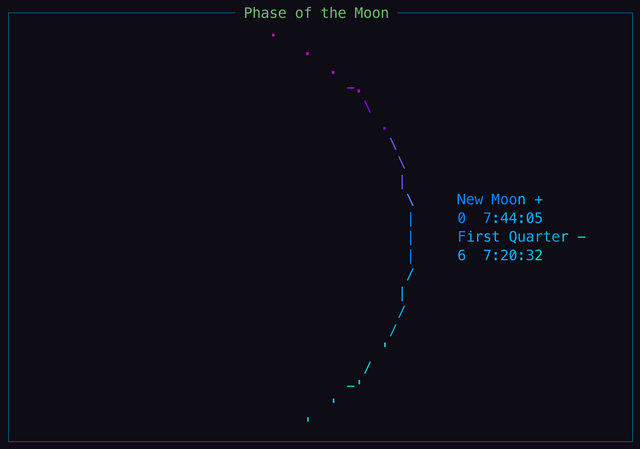
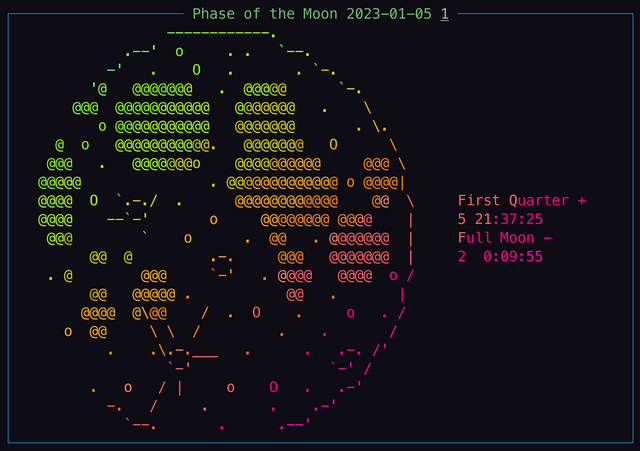
Update lunarphase with keyboard controls, add custom keyboard snippets (#169)
* Update lunarphase with keyboard controls, add custom arrow and N/O keyboard snippets

* Update lunarphase docs with note about refresh and config, update screenshots

* Move configuration info to configuration section

* Additional instructions on use of keyboard controls

* Add 't' keyboard control to reset date to today

diff --git a/docs/modules/lunarphase.md b/docs/modules/lunarphase.md
@@ -1,19 +1,43 @@
 # Lunar Phase
 
-Displays the phase of the Moon as ASCII art from [Wttr.in](http://wttr.in). The width of the column in which the lunar phase is displayed needs to be large enough for the ASCII graphic to fit or multiple columns must be allocated.
+Displays the phase of the Moon as ASCII art from [Wttr.in](http://wttr.in).
 
 ## Configuration
 
 ```yaml
 lunarphase:
   enabled: true
+  language: 'en'
   position:
     top: 3
     left: 5
     height: 2
     width: 2
-  language: 'en'
-  refreshInterval: 5h
+  title: 'Phase of the Moon'
+  timeout: 30
+```
+
+The width of the column in which the lunar phase is displayed needs to be
+large enough for the ASCII graphic to fit or multiple columns must be allocated.
+For example:
+
+```yaml
+grid:
+    columns: [74, 12]
+    rows: [14, 14]
+```
+
+The default `wtf` settings for opening a URL in a browser on Linux is
+to open the URL with `xdg-open`. However, `xdg-open` depends on the KDE
+`konqueror` web browser on many systems. An alternate configuration on Linux
+systems where `xdg-open` fails or is unavailable may be necessary. One such
+configuration uses the Gnome `gio` utility. To use `gio` to open URLs, add
+the following to your `wtf` YAML configuration:
+
+```yaml
+openUrlUtil:
+    - 'gio'
+    - 'open'
 ```
 
 ## Screenshots
@@ -22,6 +46,74 @@ lunarphase:
   <img class="screenshot" src="/assets/modules/lunarphase.png" width="640" height="448" alt="lunarphase screenshot" />
   <img class="screenshot" src="/assets/modules/lunarphase-fr.png" width="640" height="448" alt="lunarphase french screenshot" />
 </p>
+
+## Keyboard
+
+To use module keyboard controls, first press the number of the module
+displayed in the title of the module widget to give focus to that module.
+To leave module keyboard control mode, press `Esc`.
+
+When using keyboard controls to change the lunar phase day, the
+`lunarphase` module widget title will be updated to reflect the currently
+configured lunar phase day but the module widget will not automatically refresh.
+After selecting the desired day using keyboard controls, refresh the module
+widget by pressing `r`. For example, to display next week's lunar phase,
+press `Up Arrow` or `N` then press `r`. To view the lunar phase 2 days
+previous to the current day, press `Left Arrow` or `p` twice then press `r`.
+
+The following keyboard controls are supported in the `lunarphase` module:
+
+<table>
+  {% include "keyboard/table_header.md" %}
+
+  <tbody>
+    {% include "keyboard/foreslash.md" %}
+    
+    {% set return="Open selected day lunar phase at nineplanets.org in the browser" %}
+    {% include "keyboard/return.md" %}
+
+    {% include "keyboard/spacer.md" %}
+
+    {% set n="Display next day lunar phase" %}
+    {% include "keyboard/n.md" %}
+
+    {% set p="Display previous day lunar phase" %}
+    {% include "keyboard/p.md" %}
+
+    {% set t="Display today's lunar phase" %}
+    {% include "keyboard/t.md" %}
+
+    {% set N="Display next week lunar phase" %}
+    {% include "keyboard/N.md" %}
+
+    {% set P="Display previous week lunar phase" %}
+    {% include "keyboard/P.md" %}
+
+    {% set o="Open selected day lunar phase at nineplanets.org in the browser" %}
+    {% include "keyboard/o.md" %}
+
+    {% include "keyboard/r.md" %}
+
+    {% include "keyboard/spacer.md" %}
+
+    {% set arrowBack="Show the previous day lunar phase" %}
+    {% include "keyboard/arrowBack.md" %}
+
+    {% set arrowFore="Show the next day lunar phase" %}
+    {% include "keyboard/arrowFore.md" %}
+
+    {% set customArrowDown="Show previous week lunar phase" %}
+    {% include "keyboard/customArrowDown.md" %}
+
+    {% set customArrowUp="Show next week lunar phase" %}
+    {% include "keyboard/customArrowUp.md" %}
+
+    {% include "keyboard/spacer.md" %}
+
+    {% set customCtrlD="Toggle disable/enable widget display" %}
+    {% include "keyboard/customCtrlD.md" %}
+  </tbody>
+</table>
 
 {% set src="lunarphase" %}
 {% include "src_path.md" %}

diff --git a/snippets/keyboard/arrowBack.md b/snippets/keyboard/arrowBack.md
@@ -1,6 +1,6 @@
 <tr>
-        <td>
-            <code>←</code>
-        </td>
-        <td>{{ arrowback }}{{ arrowBack }}</td>
-    </tr>
+    <td>
+        <code>←</code>
+    </td>
+    <td>{{ arrowBack }}</td>
+</tr>

diff --git a/snippets/keyboard/arrowFore.md b/snippets/keyboard/arrowFore.md
@@ -1,6 +1,6 @@
 <tr>
-        <td>
-            <code>→</code>
-        </td>
-        <td>{{ arrowfore }}{{ arrowFore }}</td>
-    </tr>
+    <td>
+        <code>→</code>
+    </td>
+    <td>{{ arrowFore }}</td>
+</tr>

diff --git a/snippets/keyboard/customArrowDown.md b/snippets/keyboard/customArrowDown.md
@@ -1,0 +1,4 @@
+<tr>
+    <td><code>↓</code></td>
+    <td>{{ customArrowDown }}</td>
+</tr>

diff --git a/snippets/keyboard/customCtrlD.md b/snippets/keyboard/customCtrlD.md
@@ -1,0 +1,4 @@
+<tr>
+    <td><code>Ctrl-d</code></td>
+    <td>{{ customCtrlD }}</td>
+</tr>

diff --git a/snippets/keyboard/customArrowUp.md b/snippets/keyboard/customArrowUp.md
@@ -1,0 +1,4 @@
+<tr>
+    <td><code>↑</code></td>
+    <td>{{ customArrowUp }}</td>
+</tr>

diff --git a/snippets/keyboard/N.md b/snippets/keyboard/N.md
@@ -1,0 +1,4 @@
+<tr>
+    <td><code>N</code></td>
+    <td>{{ N }}</td>
+</tr>

diff --git a/snippets/keyboard/P.md b/snippets/keyboard/P.md
@@ -1,0 +1,4 @@
+<tr>
+    <td><code>P</code></td>
+    <td>{{ P }}</td>
+</tr>
